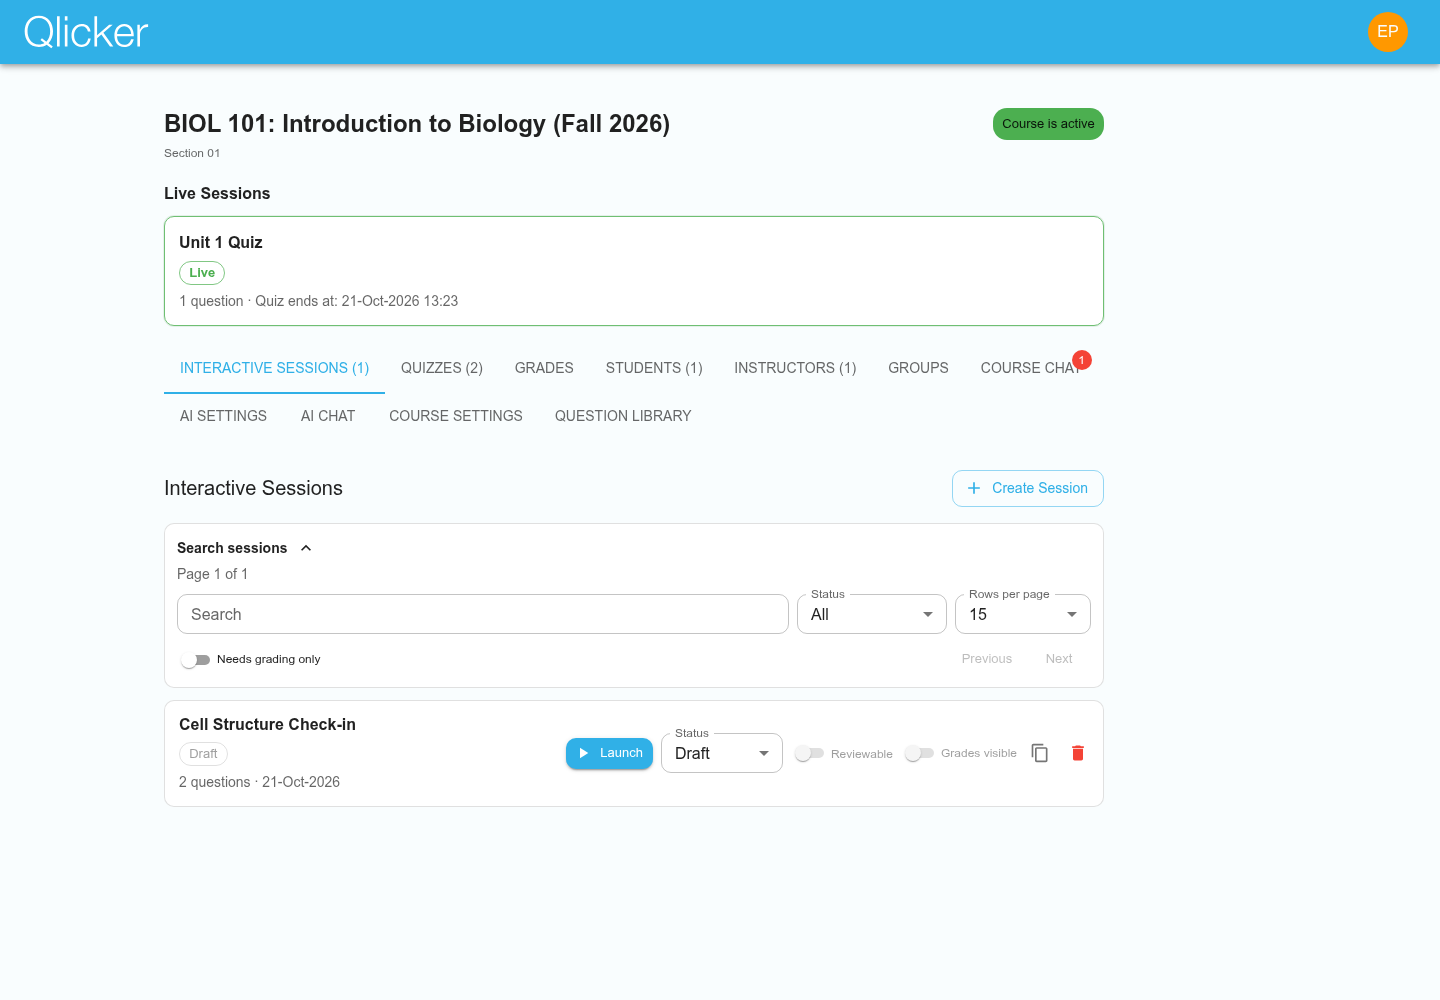
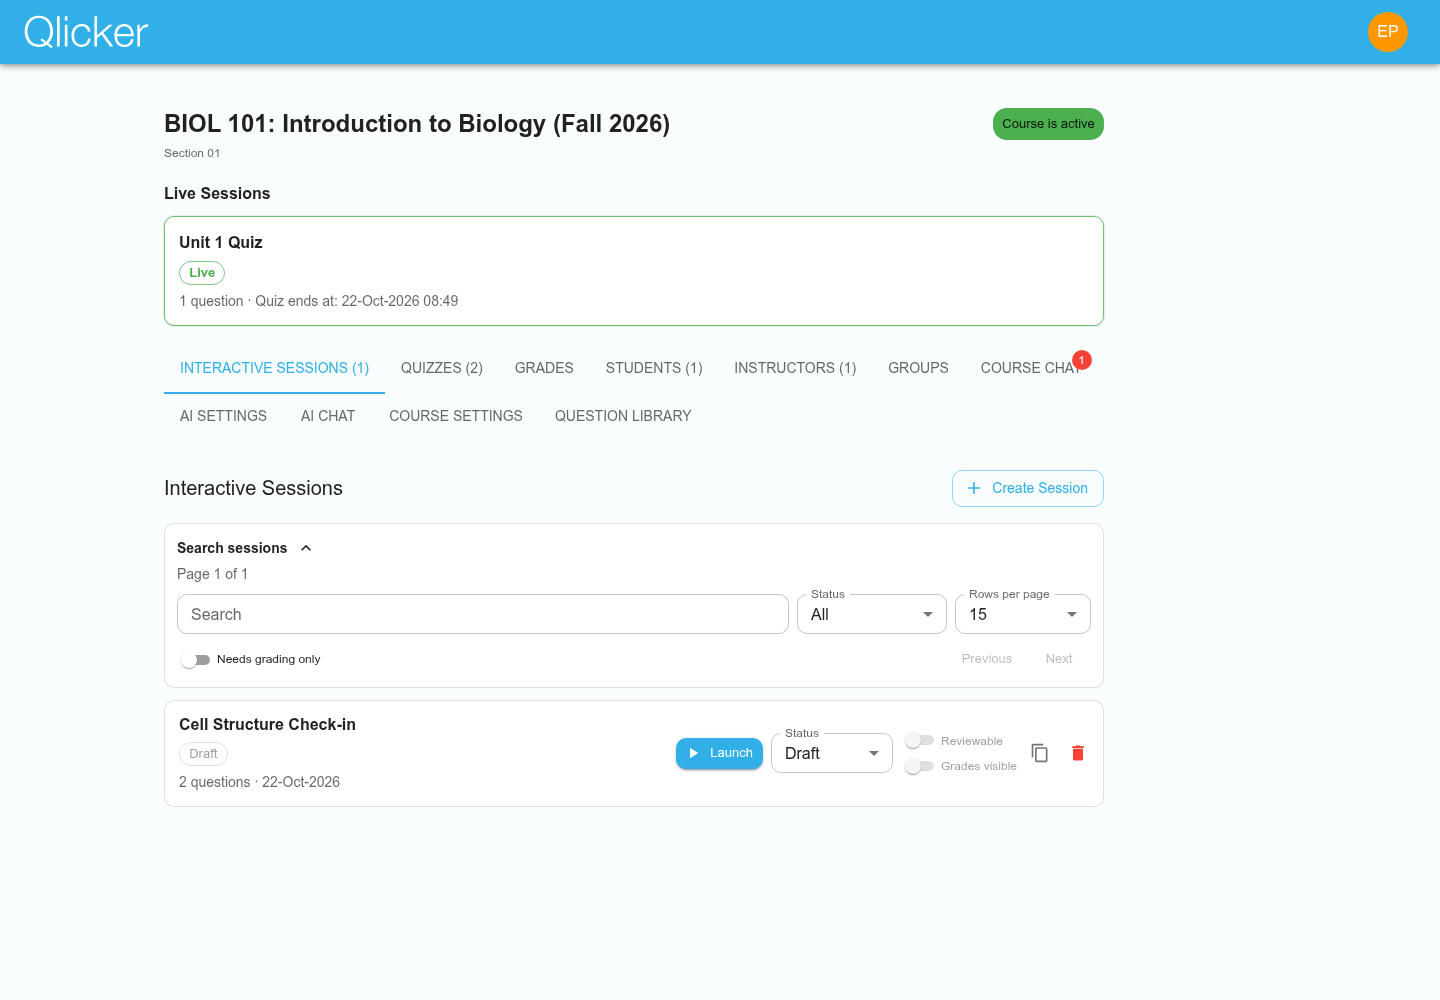
Stack session review and grade visibility toggles

Changed region(s): [[0.375, 0.713, 0.7188, 0.775]]

diff --git a/client/src/pages/professor/CourseDetail.jsx b/client/src/pages/professor/CourseDetail.jsx
@@ -1820,28 +1820,30 @@ export default function CourseDetail() {
                         <MenuItem value="running">{t('sessionStatus.live')}</MenuItem>
                         <MenuItem value="done">{t('sessionStatus.ended')}</MenuItem>
                       </TextField>
-                      <FormControlLabel
-                        sx={{ m: 0 }}
-                        control={(
-                          <Switch
-                            size="small"
-                            checked={!!s.reviewable}
-                            onChange={(event) => patchSessionFromList(s._id, { reviewable: event.target.checked })}
-                            disabled={!!sessionUpdatesInFlight[s._id] || s.status !== 'done' || s.quizHasRemainingExtensions}
-                          />
-                        )}
-                        label={(
-                          <Tooltip title={t('professor.course.reviewableHelp')} arrow>
-                            <span><Typography variant="caption">{t('professor.course.reviewable')}</Typography></span>
-                          </Tooltip>
-                        )}
-                      />
-                      <SessionGradesVisibilityControl
-                        session={s}
-                        sx={{ '& .MuiFormControlLabel-label': { typography: 'caption' } }}
-                        disabled={!!sessionUpdatesInFlight[s._id]}
-                        onChange={(checked) => patchSessionFromList(s._id, { gradesVisible: checked })}
-                      />
+                      <Box sx={{ display: 'flex', flexDirection: 'column', alignItems: 'flex-start', gap: 0.25 }}>
+                        <FormControlLabel
+                          sx={{ m: 0 }}
+                          control={(
+                            <Switch
+                              size="small"
+                              checked={!!s.reviewable}
+                              onChange={(event) => patchSessionFromList(s._id, { reviewable: event.target.checked })}
+                              disabled={!!sessionUpdatesInFlight[s._id] || s.status !== 'done' || s.quizHasRemainingExtensions}
+                            />
+                          )}
+                          label={(
+                            <Tooltip title={t('professor.course.reviewableHelp')} arrow>
+                              <span><Typography variant="caption">{t('professor.course.reviewable')}</Typography></span>
+                            </Tooltip>
+                          )}
+                        />
+                        <SessionGradesVisibilityControl
+                          session={s}
+                          sx={{ '& .MuiFormControlLabel-label': { typography: 'caption' } }}
+                          disabled={!!sessionUpdatesInFlight[s._id]}
+                          onChange={(checked) => patchSessionFromList(s._id, { gradesVisible: checked })}
+                        />
+                      </Box>
                       <Tooltip title={t('professor.course.copySession')}>
                         <IconButton
                           size="small"
